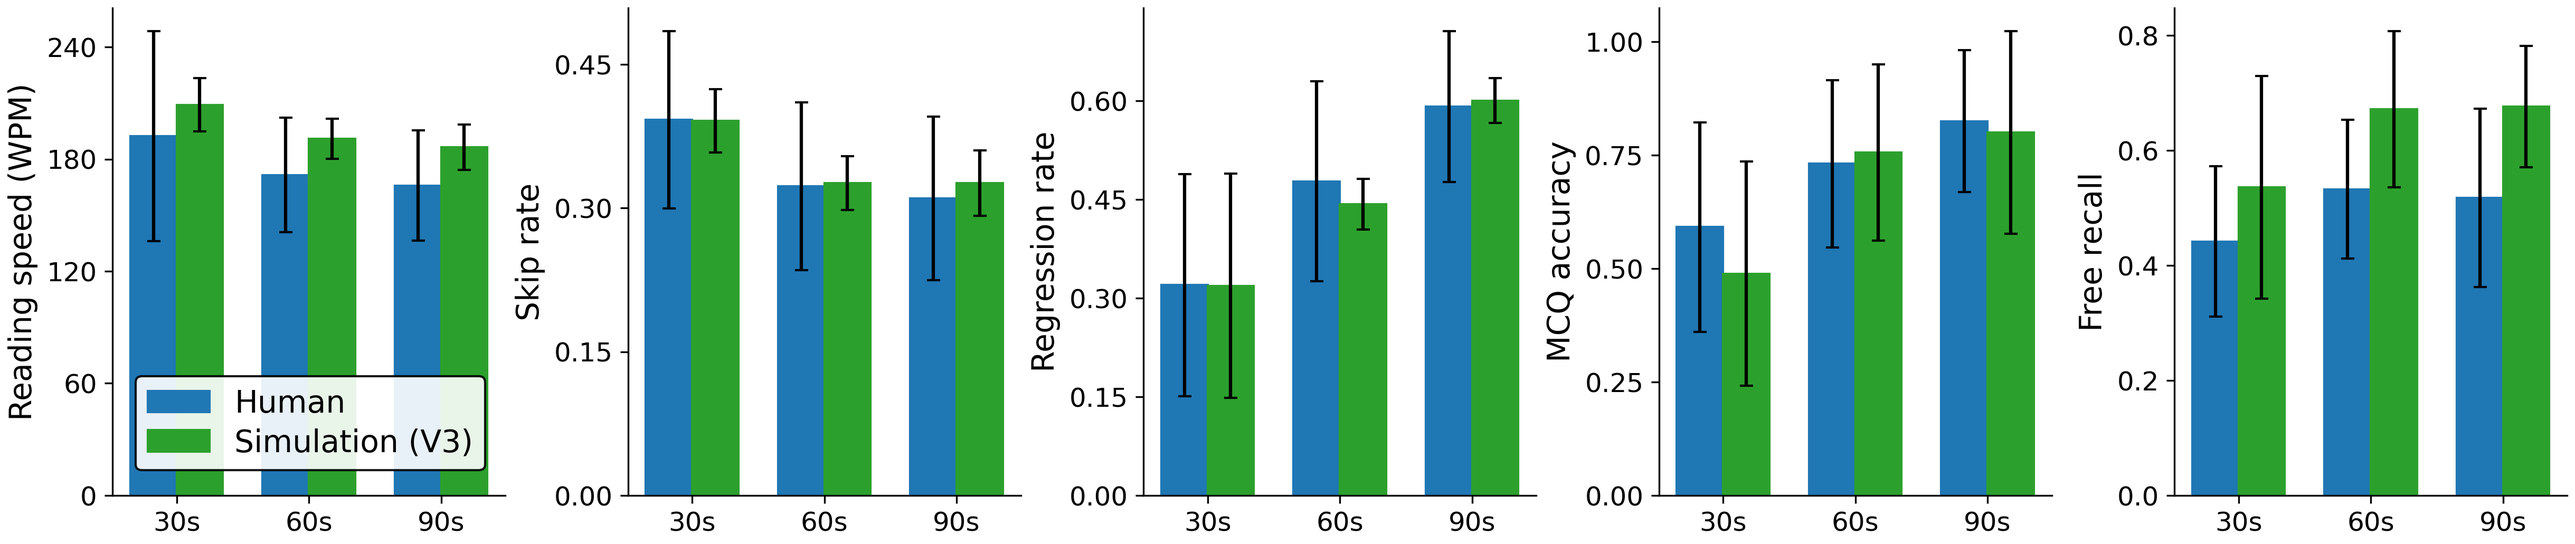
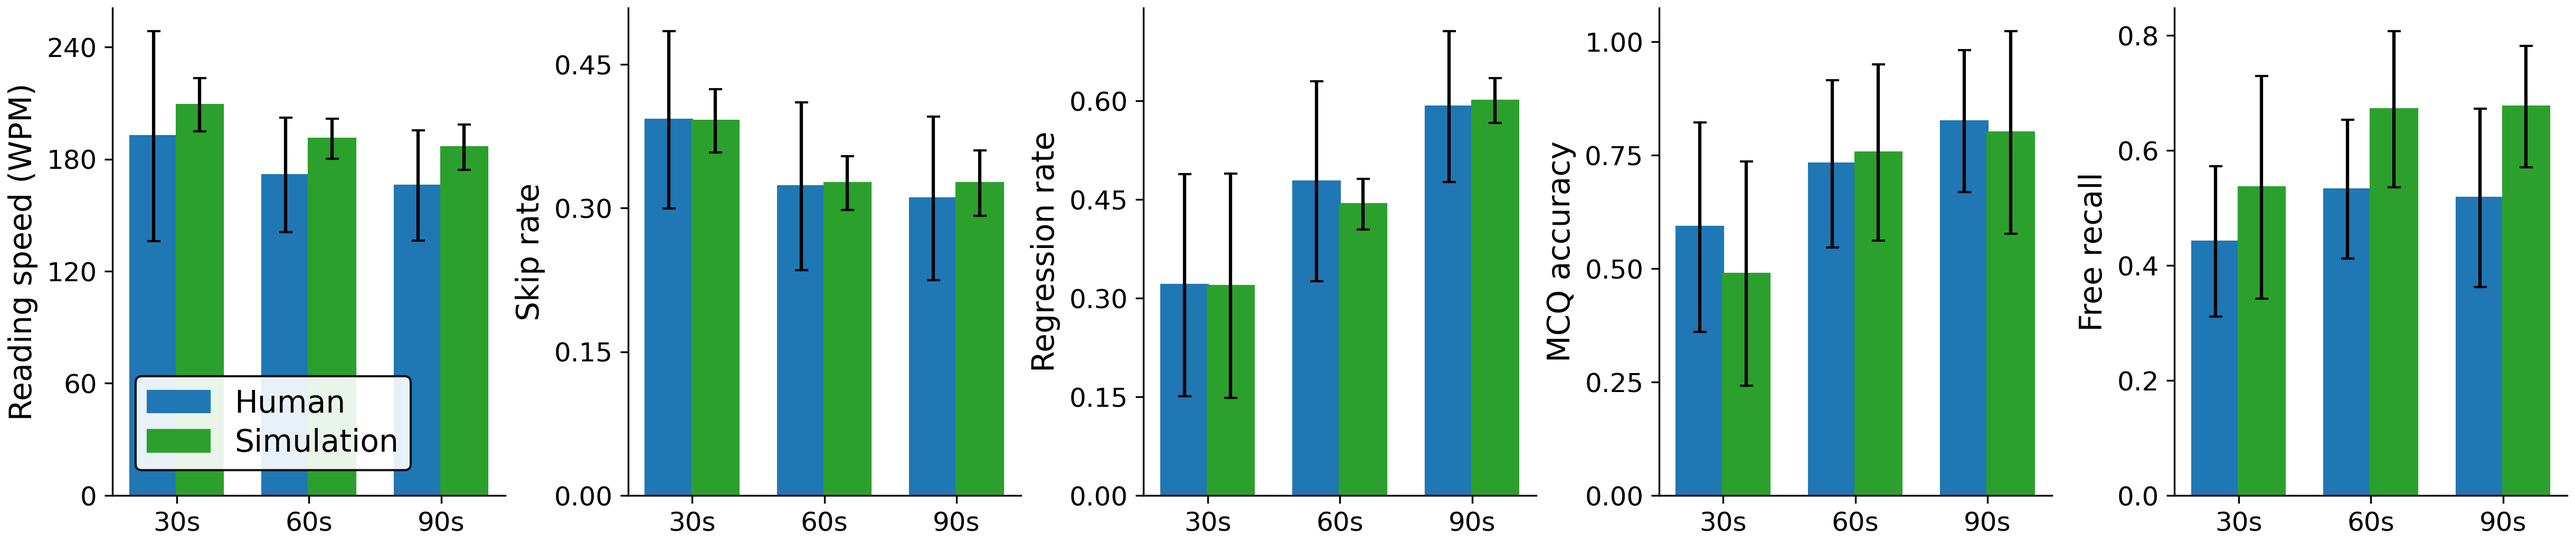
Simulation >> Comparison study for full memory testing. Results: apart from super-human level comprehension. In the eye movement metrics, only the 30s condition reduced a lot of regressions. TODO: I will train another version of agent to see whether 60s and 90s would change as well. It is normal not

Changed region(s): [[0.1558, 0.6828, 0.187, 0.8691]]

diff --git a/step5/simulators/simulator_v20250604/sub_models/text_read_v0604/TextReadEnv.py b/step5/simulators/simulator_v20250604/sub_models/text_read_v0604/TextReadEnv.py
@@ -232,7 +232,9 @@ class TextReadingUnderTimePressureEnv(Env):
                     apply=False
                 )
                 # Update the sentences' appraisal scores
-                self._already_read_sentences_appraisal_scores_distribution[self.current_sentence_index] = new_scores[self.current_sentence_index]
+                # self._already_read_sentences_appraisal_scores_distribution[self.current_sentence_index] = new_scores[self.current_sentence_index]     # TODO uncomment later, only for full memory agent.
+                self._already_read_sentences_appraisal_scores_distribution[self.current_sentence_index] = 1.0                                           # TODO: comment later when doing the normal tests.
+
                 # Update the elapsed time
                 if self._get_data_from_other_agents:
                     self._elapsed_time = time_info["elapsed_time"]

diff --git a/step5/simulators/simulator_v20250604/utils/analyze_data.py b/step5/simulators/simulator_v20250604/utils/analyze_data.py
@@ -355,7 +355,8 @@ if __name__ == "__main__":
 
     # File name
     # file_name = "20251010_0920_trials1_stims9_conds3"       # word recognition gamma = 0.2 only.
-    file_name = "20251011_0827_trials1_stims9_conds3"       # text readingn gamma = 0.2 only.
+    # file_name = "20251011_0827_trials1_stims9_conds3"       # text readingn gamma = 0.2 only.
+    file_name = "20251013_0901_trials1_stims9_conds3"                                          # full memory agent only.
 
     input_file = os.path.join(current_dir, "simulated_results", file_name, "all_simulation_results.json")
     output_file = os.path.join(current_dir, "simulated_results", file_name, "processed_reading_metrics.json")

diff --git a/step5/simulators/simulator_v20250604/plot/plot_eye_comp_from_aggregated_metrics.py b/step5/simulators/simulator_v20250604/plot/plot_eye_comp_from_aggregated_metrics.py
@@ -64,7 +64,7 @@ def _bar_group(ax, centers, means_h, stds_h, means_s, stds_s, ylabel=None, xlabe
     rects_s = ax.bar(offsets_s, means_s, bar_w,
                      yerr=stds_s, capsize=BAR_CAPSIZE,
                      edgecolor=SIM_COLOR, linewidth=BAR_LINEWIDTH, color=SIM_COLOR,
-                     label="Simulation (V3)")
+                     label="Simulation")
 
     if ylabel:
         ax.set_ylabel(ylabel)
